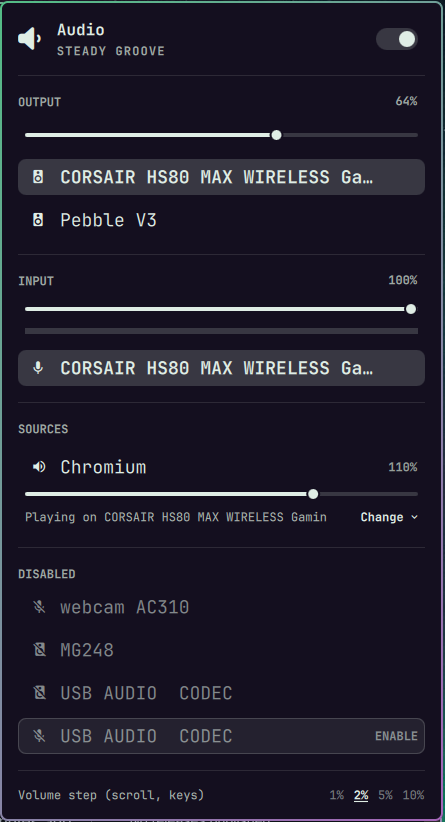
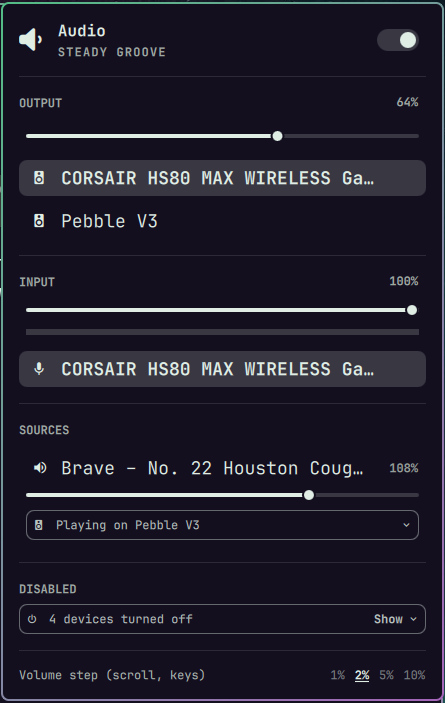
Retake the screenshots and preview for the dropdown fields

Changed region(s): [[0.0, 0.0, 1.0, 1.0]]

diff --git a/README.md b/README.md
@@ -3,8 +3,8 @@
 Omarchy's audio panel, with the controls it was missing.
 
 <p>
-  <img src="assets/omaudiopanel.png" alt="The omaudiopanel audio panel with outputs, inputs, an app in the mixer, disabled devices and the volume step" width="360">
-  <img src="assets/omaudioroute.png" alt="The same panel with Chromium's output picker open, including the option to always play it on one output" width="360">
+  <img src="assets/omaudiopanel.png" alt="The omaudiopanel audio panel: outputs, inputs, Brave in the mixer with its output field, the folded Disabled section and the volume step" width="360">
+  <img src="assets/omaudioroute.png" alt="The same panel with Brave's output picker open, the option to always play it on one output, and the power icon for disabling an output" width="360">
 </p>
 
 A drop-in replacement for the built-in `omarchy.audio` bar widget. Everything
@@ -12,10 +12,11 @@ the stock panel does still works the same way — volume, output and input
 pickers, the per-app mixer, keyboard navigation — and it adds:
 
 - **Disable devices.** Hover an output or input and click the power icon (or
-  press `d`). Disabled devices move to a **Disabled** section at the bottom;
-  click one to turn it back on. Nothing else is interrupted.
-- **Choose where each app plays.** Under every app in the mixer, "Playing on
-  CORSAIR HS80" shows its output. Click **Change** to send it somewhere else
+  press `d`). Disabled devices collect in a **Disabled** section at the bottom,
+  folded into one line ("4 devices turned off"). Click **Show** to list them,
+  then click one to turn it back on. Nothing else is interrupted.
+- **Choose where each app plays.** Under every app in the mixer, a
+  "Playing on CORSAIR HS80" field shows its output. Click it to pick another
   (or press `r` to step through outputs).
 - **Pin an app to an output.** In that picker, tick **Always play Brave on
   USB AUDIO CODEC** — the output you picked, or the one it is playing on. Every
